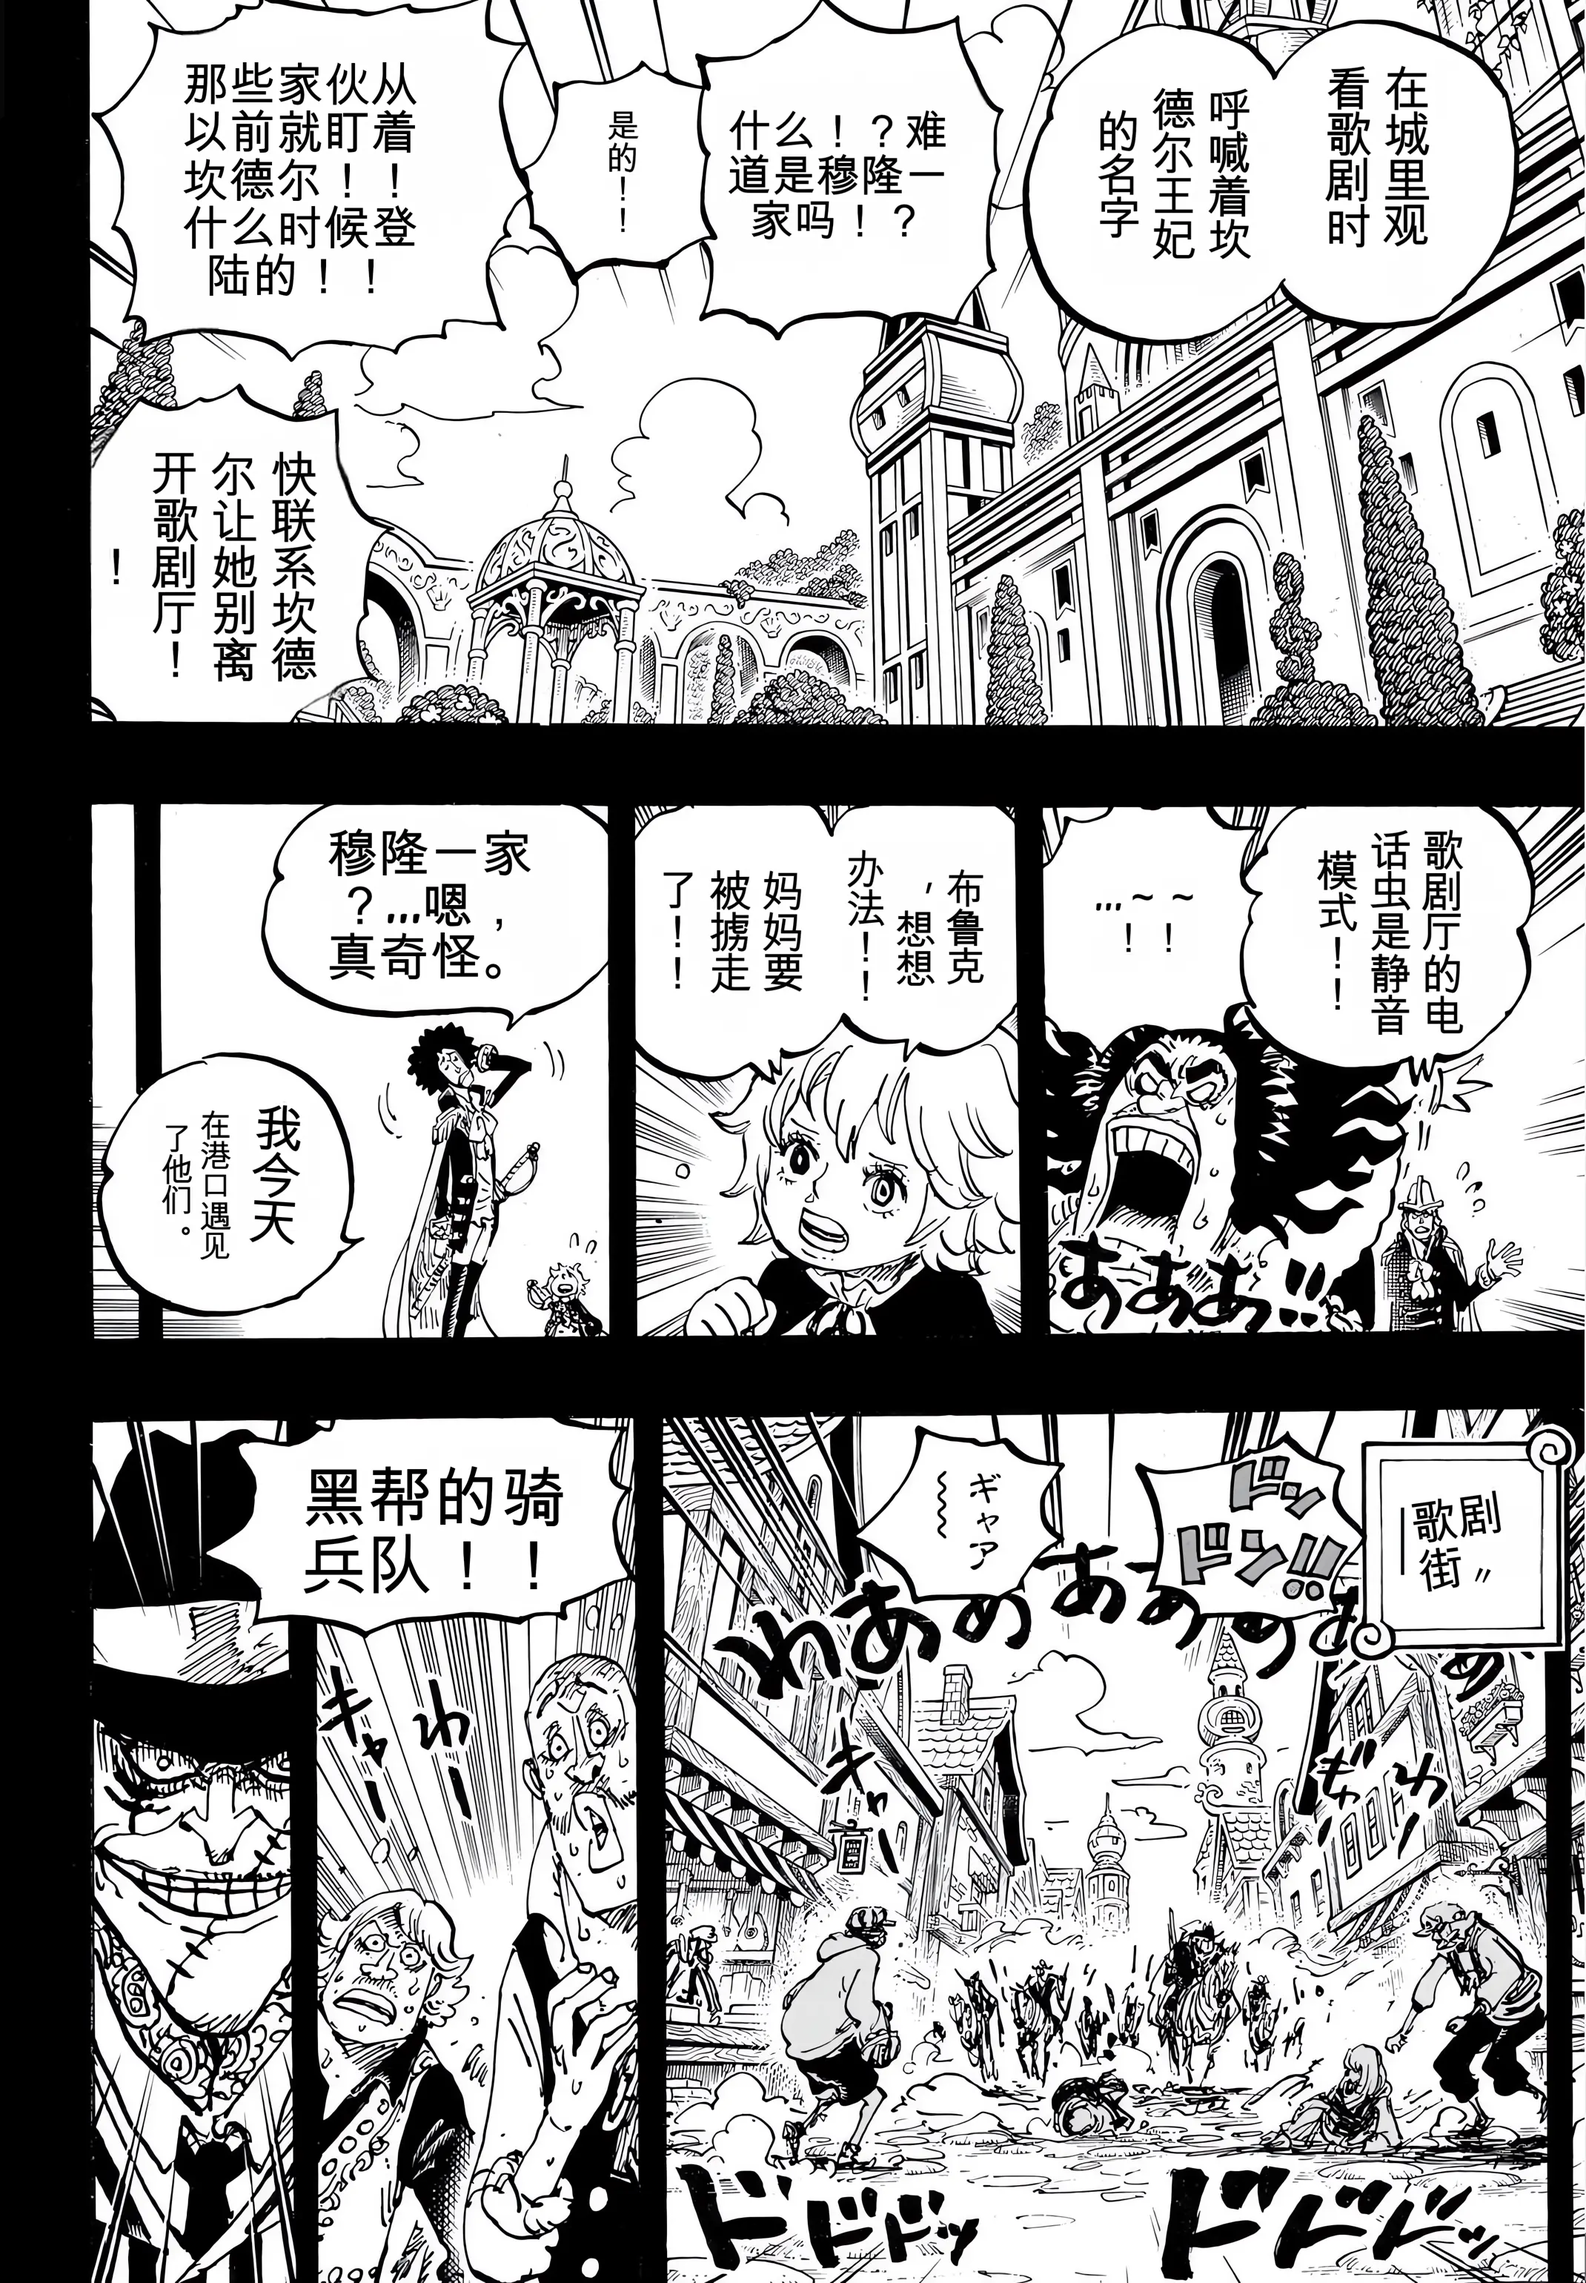
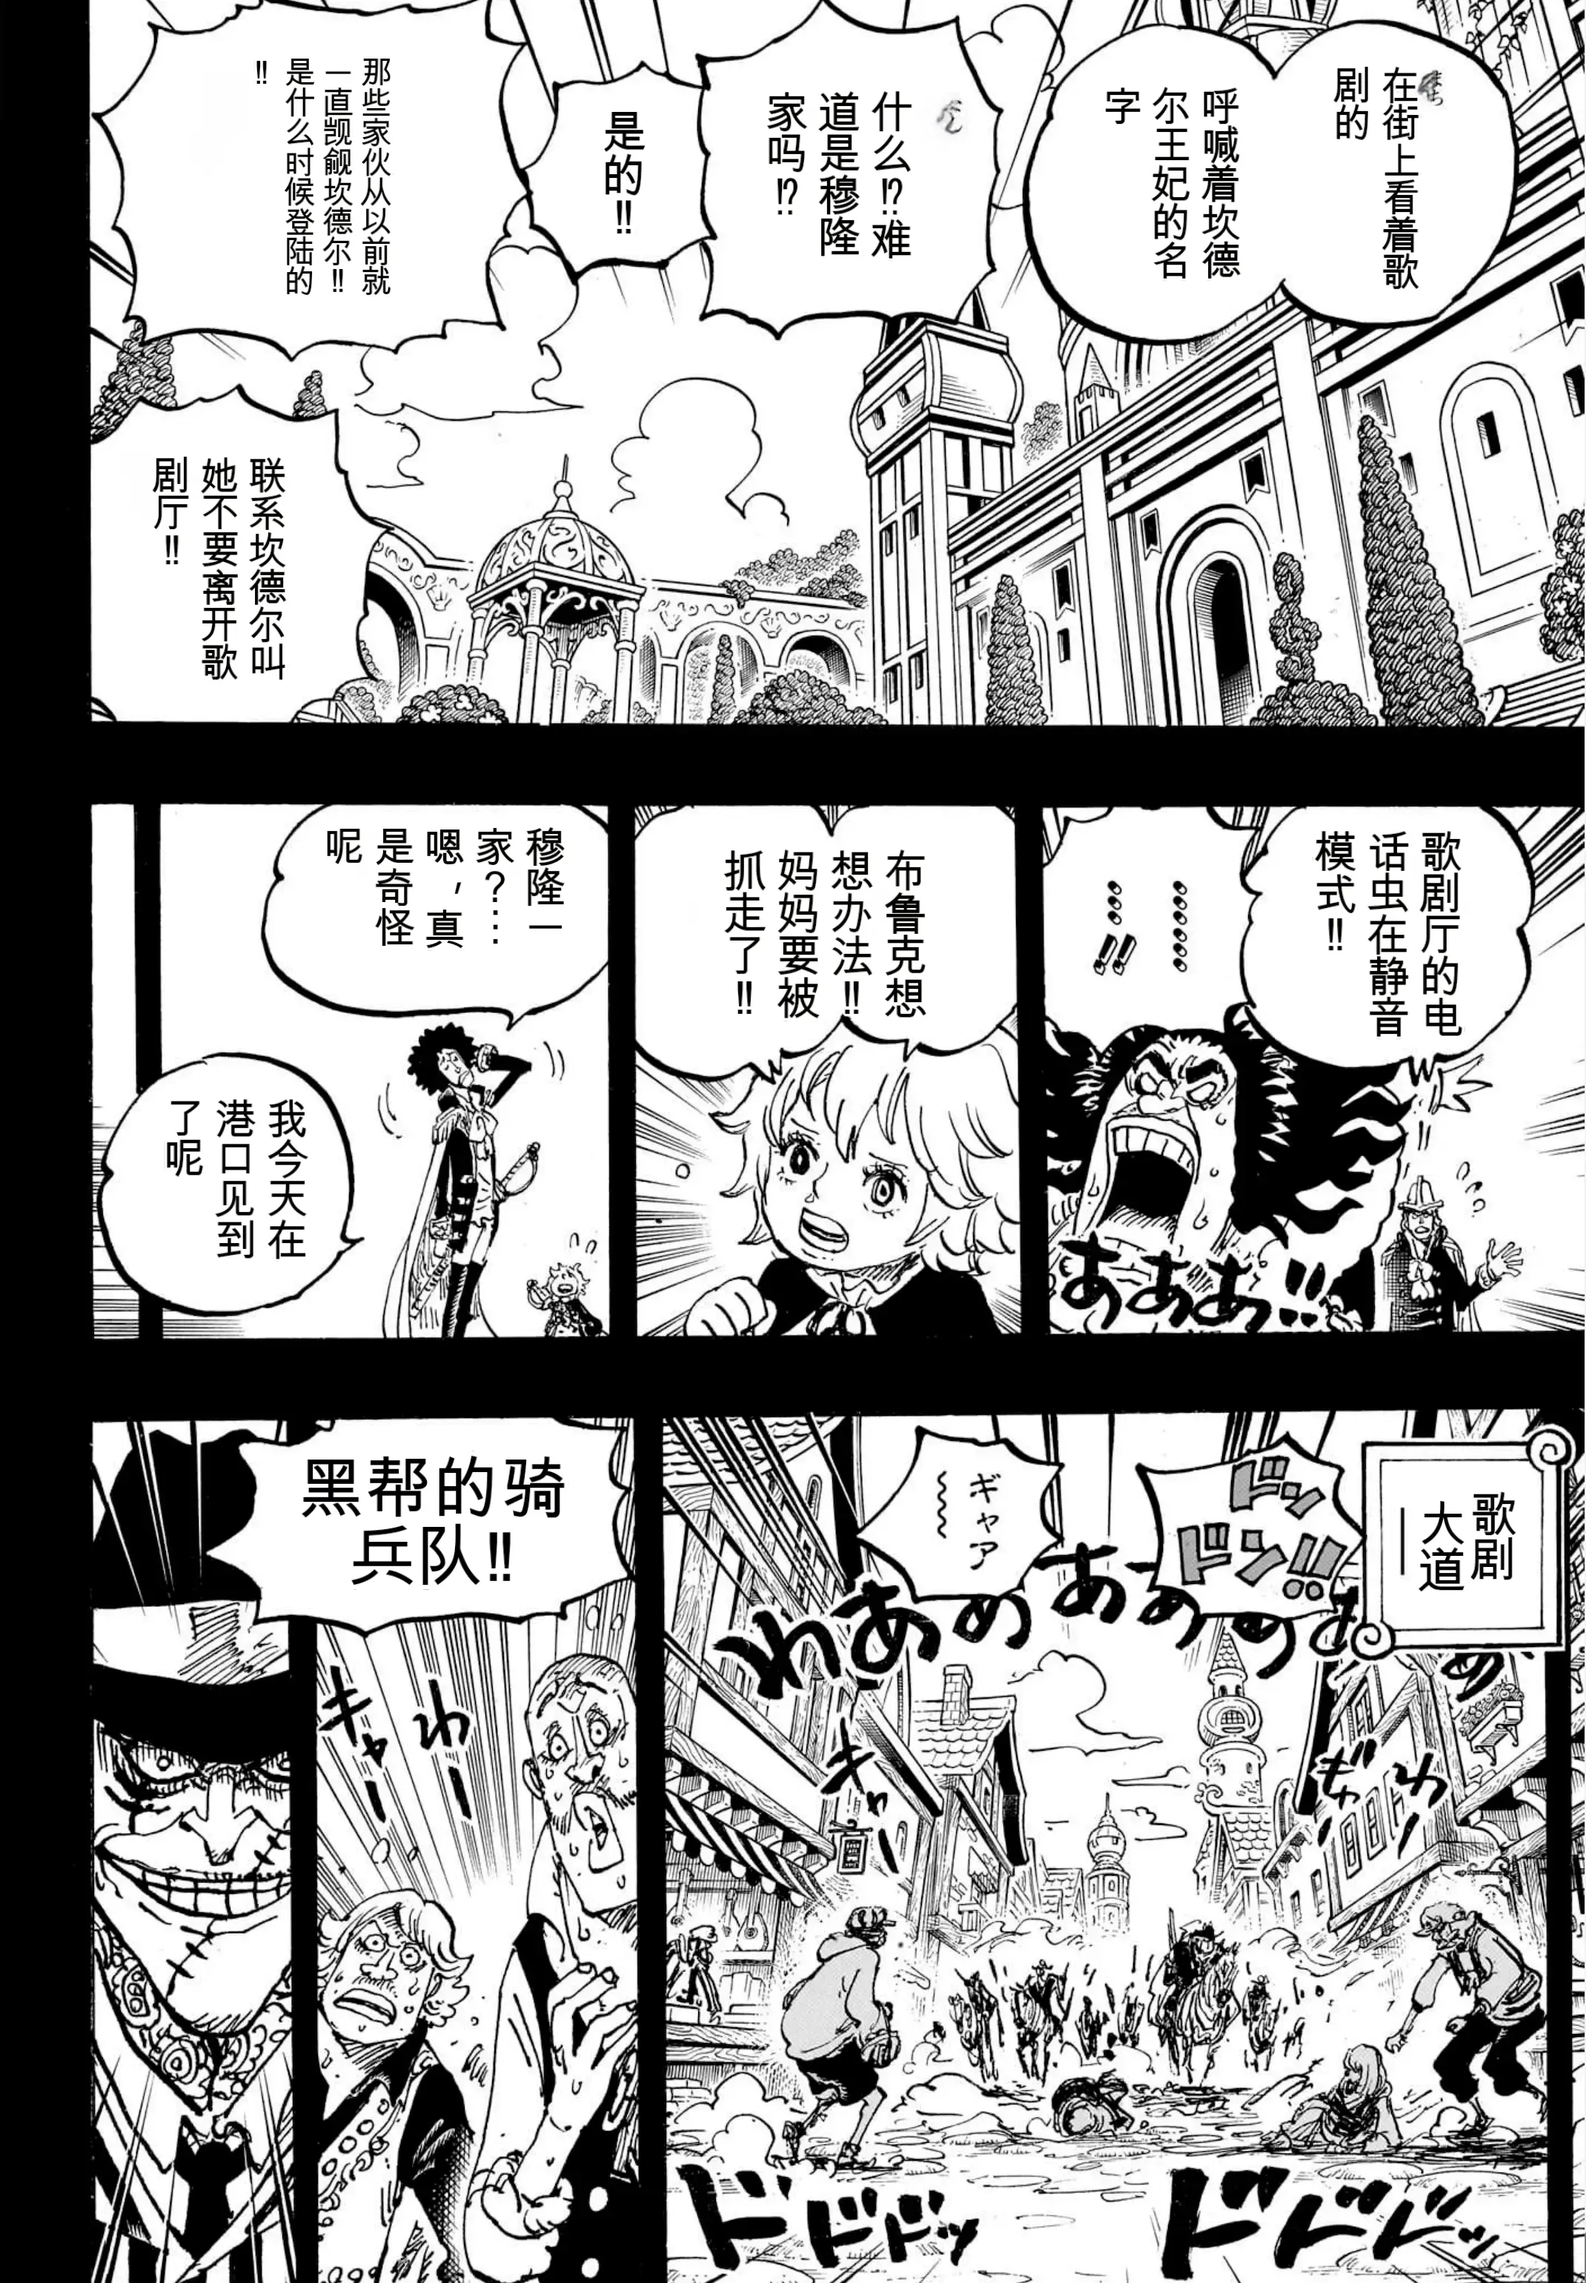
feat: 实现 showcase

diff --git a/app/(main)/v2/_components/image-compare-slider.tsx b/app/(main)/v2/_components/image-compare-slider.tsx
@@ -1,0 +1,94 @@
+"use client";
+
+import { useCallback, useRef, useState } from "react";
+import { ChevronsLeftRight } from "lucide-react";
+
+import { cn } from "@/components/utils";
+
+type ImageCompareSliderProps = {
+    beforeSrc: string;
+    afterSrc: string;
+    beforeAlt?: string;
+    afterAlt?: string;
+    initialPosition?: number;
+    className?: string;
+};
+
+export function ImageCompareSlider({
+    beforeSrc,
+    afterSrc,
+    beforeAlt = "原图",
+    afterAlt = "翻译后",
+    initialPosition = 50,
+    className,
+}: ImageCompareSliderProps) {
+    const [position, setPosition] = useState(initialPosition);
+    const containerRef = useRef<HTMLDivElement>(null);
+
+    const updateFromClientX = useCallback((clientX: number) => {
+        const el = containerRef.current;
+        if (!el) return;
+        const rect = el.getBoundingClientRect();
+        if (rect.width <= 0) return;
+        const next = ((clientX - rect.left) / rect.width) * 100;
+        setPosition(Math.min(100, Math.max(0, next)));
+    }, []);
+
+    return (
+        <div
+            ref={containerRef}
+            className={cn(
+                "relative w-full cursor-col-resize touch-none select-none overflow-hidden",
+                className,
+            )}
+            onPointerMove={(event) => updateFromClientX(event.clientX)}
+            onPointerDown={(event) => {
+                // 触控：按下后继续跟踪手指
+                event.currentTarget.setPointerCapture(event.pointerId);
+                updateFromClientX(event.clientX);
+            }}
+            role="slider"
+            aria-label="翻译前后对比"
+            aria-valuemin={0}
+            aria-valuemax={100}
+            aria-valuenow={Math.round(position)}
+            tabIndex={0}
+            onKeyDown={(event) => {
+                if (event.key === "ArrowLeft") {
+                    event.preventDefault();
+                    setPosition((p) => Math.max(0, p - 2));
+                } else if (event.key === "ArrowRight") {
+                    event.preventDefault();
+                    setPosition((p) => Math.min(100, p + 2));
+                }
+            }}
+        >
+            <img
+                src={beforeSrc}
+                alt={beforeAlt}
+                className="block h-auto w-full"
+                draggable={false}
+            />
+            <div
+                className="absolute inset-0"
+                style={{ clipPath: `inset(0 ${100 - position}% 0 0)` }}
+            >
+                <img
+                    src={afterSrc}
+                    alt={afterAlt}
+                    className="absolute inset-0 h-full w-full object-cover"
+                    draggable={false}
+                />
+            </div>
+            <div
+                aria-hidden
+                className="pointer-events-none absolute inset-y-0 z-10 w-px -translate-x-1/2 bg-border"
+                style={{ left: `${position}%` }}
+            >
+                <div className="absolute top-1/2 left-1/2 flex size-8 -translate-x-1/2 -translate-y-1/2 items-center justify-center rounded-full border bg-background shadow">
+                    <ChevronsLeftRight className="size-4 text-muted-foreground" />
+                </div>
+            </div>
+        </div>
+    );
+}

diff --git a/app/(main)/v2/_components/showcase-section.tsx b/app/(main)/v2/_components/showcase-section.tsx
@@ -1,4 +1,7 @@
-const PLACEHOLDER_WIDE = "https://placehold.co/800x400/e5e5e5/a3a3a3?text=Before+%2F+After";
+import { ImageCompareSlider } from "./image-compare-slider";
+
+const BEFORE_SRC = "/showcase/1183-14.webp";
+const AFTER_SRC = "/showcase/1183-14-chs.webp";
 
 export function ShowcaseSection() {
     return (
@@ -8,11 +11,12 @@ export function ShowcaseSection() {
                 <p className="mb-6 text-sm text-muted-foreground">
                     拖动滑块对比原图 / 翻译
                 </p>
-                <div className="overflow-hidden rounded-xl border bg-background">
-                    <img
-                        src={PLACEHOLDER_WIDE}
-                        alt="翻译前后对比"
-                        className="mx-auto h-auto w-full max-w-3xl object-cover"
+                <div className="mx-auto max-w-[38.4rem] overflow-hidden rounded-xl border bg-background">
+                    <ImageCompareSlider
+                        beforeSrc={BEFORE_SRC}
+                        afterSrc={AFTER_SRC}
+                        beforeAlt="翻译前原图"
+                        afterAlt="翻译后效果"
                     />
                 </div>
             </div>
